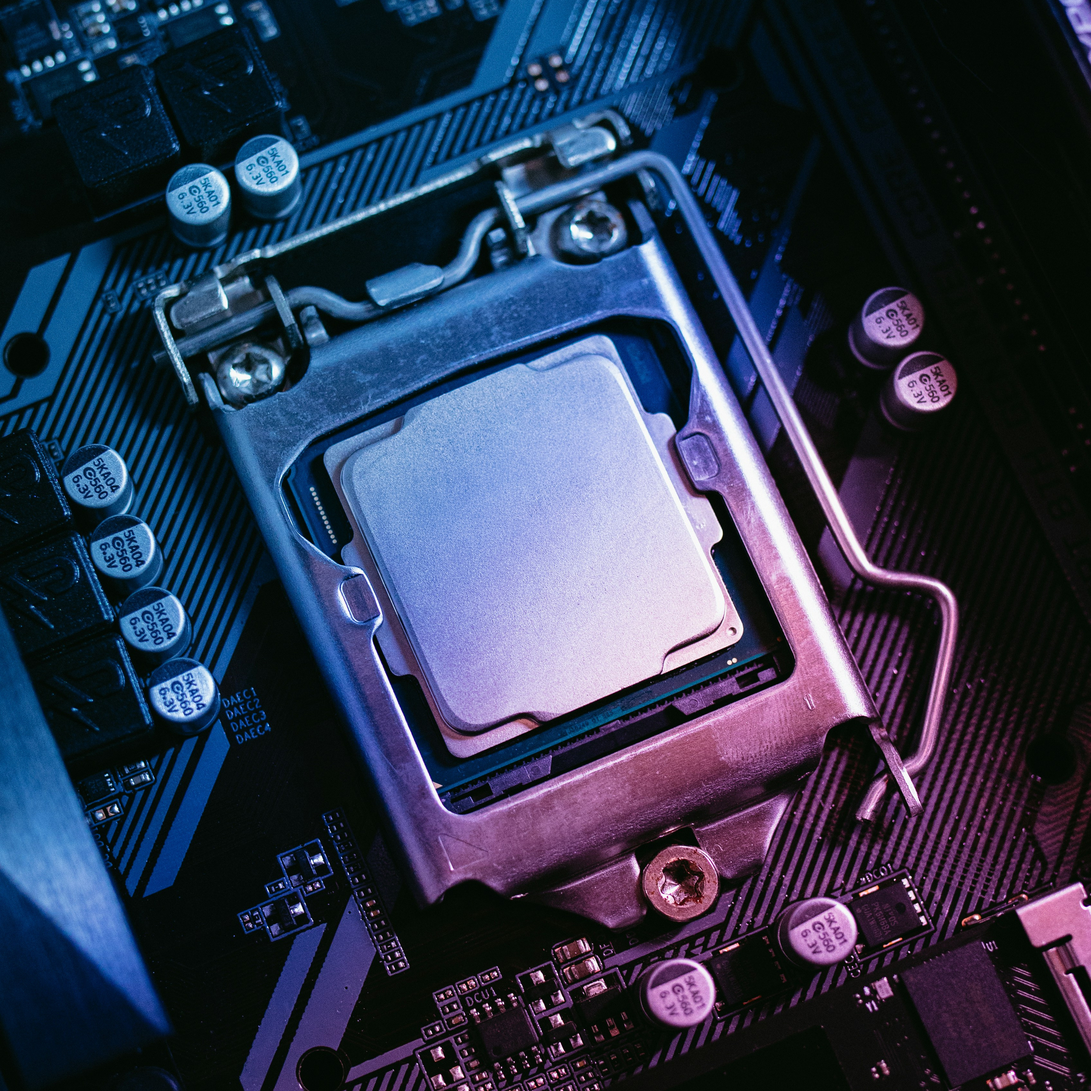
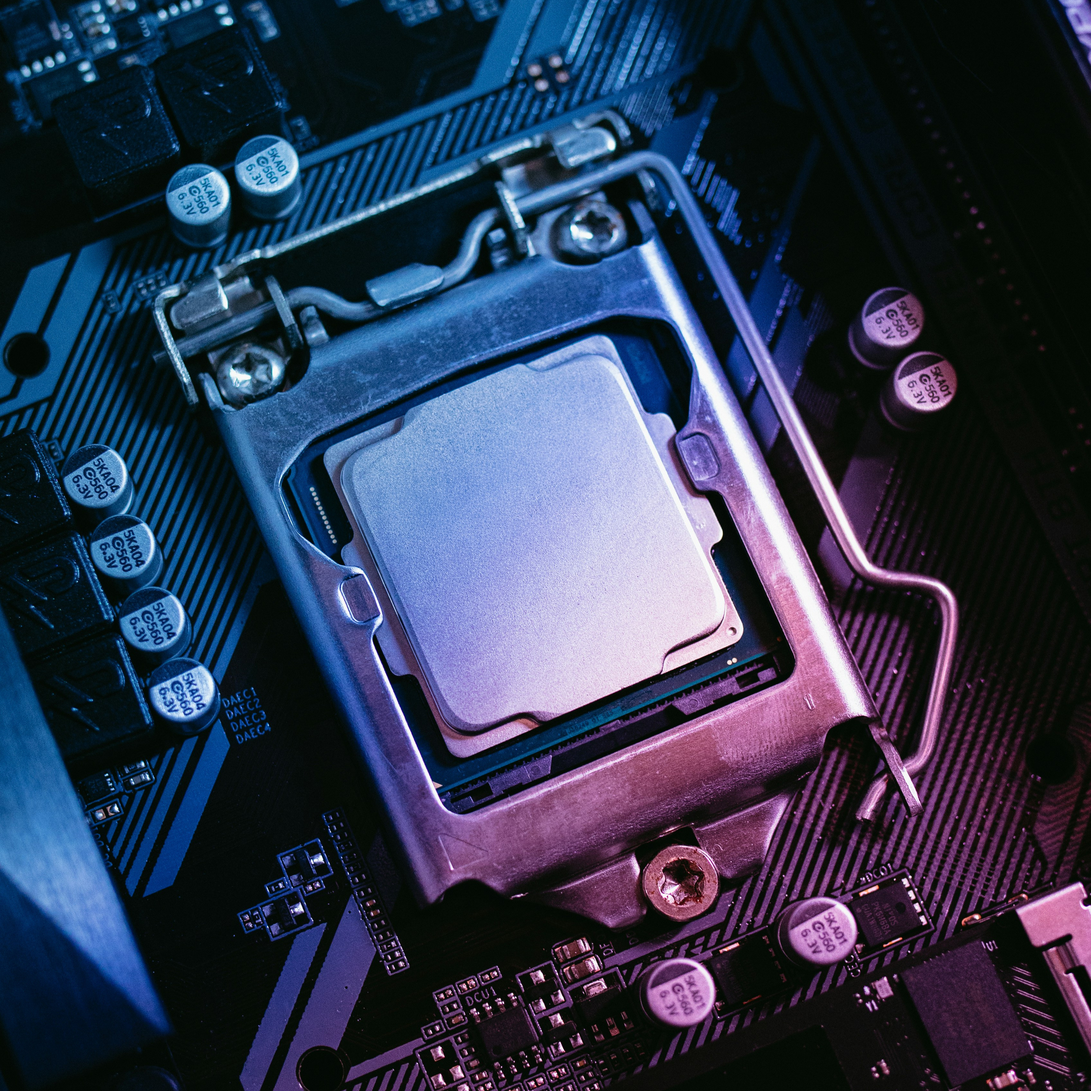
In the final stages of the home page
- Added fade in animations on title and products section.
- Changed navigation bar buttons to anchor tag links that looks like buttons
- Downloaded and cropped images for products
- Finished the layout of the products section and created anchor tags on the image and title

What still needs to be done before 100% completion for home page:
- Add in links that will go to other webpages

diff --git a/index.html b/index.html
@@ -12,23 +12,23 @@
 <body>
     <div class="nav-bar">
         <h1 class="bruno-ace-sc-regular" id="logo">OptiCore</h1>
-        <button class="navbar-button">Home</button>
-        <a href="#about-us-content" class="navbar-button">About Us</a>
-        <!-- <button id="navbar-button">About Us</button> -->
-        <button class="navbar-button">Products</button>
-        <button class="navbar-button">Warranty Policy</button>
-        <button class="navbar-button">Q&A</button>
+        <a href="index.html" class="navbar-button">Home</a>
+        <a href="#about-us" class="navbar-button">About Us</a>
+        <a href="#products" class="navbar-button">Products</a>
+        <a href="" class="navbar-button">Warranty Policy</a>
+        <a href="" class="navbar-button">Q & A</a>
     </div>
     <div id="hero-banner">
         <h1 class="bruno-ace-sc-regular" id="company-name">OptiCore Engineering</h1>
         <h2 class="bruno-ace-sc-regular" id="slogan">Optimized for Performance. At Affordable Prices.</h2>
         <p id="company-description">High-quality computer components, thoroughly tested and reasonably priced.</p> 
-        <button id="shop-now">Shop Now</button>
+        <a href="" class="shop-now-button">Shop Now</a>
+        <!-- <button class="shop-now-button">Shop Now</button> -->
     </div>
 
     <!-- About Us Section of Home Page -->
-    <div class="home-page-containers" id="about-us-content">
-        <h1 class="title-section">About Us</h1>
+    <div class="home-page-containers" id="about-us">
+        <h1 class="title-section">Our Business</h1>
         <p id="about-us-text">We are a growing technology e-commerce computer hardware company that makes and sells high-quality computer parts at competitive prices. 
             We are always striving to provide you with high-quality computer parts at a lower price whether you need them for upgrading or building your computer.</p>
         <br>
@@ -47,8 +47,8 @@
             <p id="about-us-text">
                 <span class="heading-text">Our Mission</span>
                 <br><br>
-                We manufacture and sell computer parts ranging from CPUs and GPUs to motherboards and even our own laptops at a reasonable price.
-               We want to make much needed computer parts available for everybody during the AI boom and their heavy demands.</p>
+                We manufacture and sell computer parts ranging from CPUs and GPUs to motherboards and even our own laptops at a reasonable price. 
+                Our products are always lab-tested and certified to make sure our quality standards have been met to give our customers trusted and reliable computer parts available for everybody during the AI boom and their heavy demands.</p>
             <img src="images-for-business-website/computer-hardware-cropped.jpg" width="20%"">
         </div>
         <!-- Result -->
@@ -64,43 +64,79 @@
     <!-- Products section in Home Page -->
     <div class="home-page-containers" id="products">
         <h1 class="title-section">Products</h1>
-        <div id="product-container">
-            <div class="cpu">
-                <img src="images-for-business-website/cpu-cropped.jpg" width="15%">
-                <p>Base:Insert price here</p>
-                <p>Pro:Insert price here</p>
+        <div class="product-container">
+            <!-- Classes will be used for animations (sequential fade ins) -->
+             <!-- Creating two divs so that there are only five products in each row -->
+             <div class="product-row-one">
+                <div class="cpu">
+                    <a href=""><img src="images-for-business-website/cpu-cropped.jpg" width="275rem"></a>
+                    <a class="product-link" href="" ><h3 id="product-title">Desktop CPU</h3></a>
+                    <p><span class="bold-text">Base</span>: $249.99<br><span class="bold-text">Pro</span>: $499.99</p>
+                </div>
+                <div class="gpu">
+                    <a href=""><img src="images-for-business-website/gpu-cropped.jpg" width="275rem"></a>
+                    <a class="product-link" href=""><h3 id="product-title">Desktop GPU</h3></a>
+                    <p><span class="bold-text">Base</span>: $299.99<br><span class="bold-text">Pro</span>: $799.99</p>
+                </div>
+                <div class="ram">
+                    <a href=""><img src="images-for-business-website/ram-cropped.jpg" width="275rem"></a>
+                    <a class="product-link" href=""><h3 id="product-title">RAM</h3></a>
+                    <p><span class="bold-text">Price</span>:<br>Up to $189.99 (64 GB)</p>
+                </div>
+                <div class="ssd">
+                    <a href=""><img src="images-for-business-website/ssd-cropped.jpg" width="275rem"></a>
+                    <a class="product-link" href=""><h3 id="product-title">SSD</h3></a>
+                    <p><span class="bold-text">Price</span>:<br>Up to $374.99 (4 TB)</p>
+                </div>
+                <div class="motherboard">
+                    <a href=""><img src="images-for-business-website/motherboard-cropped.jpg" width="275rem"></a>
+                    <a class="product-link" href=""><h3 id="product-title">Motherboard</h3></a>
+                    <p><span class="bold-text">Price</span>:<br>$229.99</p>
+                </div>
             </div>
-            <div class="gpu">
-            </div>
-            <div class="ram">
-            </div>
-            <div class="ssd">
-            </div>
-            <div class="motherboard">
-            </div>
-            <div class="liquid-cooler">
-            </div>
-            <div class="fan-cooler">
-            </div>
-            <div class="psu">
-            </div>
-            <div class="ups">
-            </div>
-            <div class="laptops">
+            
+            <div class="product-row-two">
+                <div class="liquid-cooler">
+                    <a href=""><img src="images-for-business-website/liquid-cooler.jpg" width="275rem"></a>
+                    <a class="product-link" href=""><h3 id="product-title">Liquid Cooler</h3></a>
+                    <p><span class="bold-text">Price</span>:<br>$269.99</p>
+                </div>
+                <div class="air-cooler">
+                    <a href=""><img src="images-for-business-website/air-cooler-cropped.png" width="275rem"></a>
+                    <a class="product-link" href=""><h3 id="product-title">Air Cooler</h3></a>
+                    <p><span class="bold-text">Price</span>:<br>$39.99</p>
+                </div>
+                <div class="psu">
+                    <a href=""><img src="images-for-business-website/power-supply-unit.jpg" width="275rem"></a>
+                    <a class="product-link" href=""><h3 id="product-title">Power Supply Unit</h3></a>
+                    <p><span class="bold-text">Price</span>:<br>Up to $79.99</p>
+                </div>
+                <div class="ups">
+                    <a href=""><img src="images-for-business-website/ups-cropped.png" width="275rem"></a>
+                    <a class="product-link" href=""><h3 id="product-title">Uninterruptible Power Supply</h3></a>
+                    <p><span class="bold-text">Price</span>:<br>$124.99</p>
+                </div>
+                <div class="laptops">
+                    <a href=""><img src="images-for-business-website/base-laptop-cropped.jpg" width="275rem"></a>
+                    <a class="product-link" href=""><h3 id="product-title">Laptops</h3></a>
+                    <p><span class="bold-text">Price</span>:<br>Up to $4,200</p>
+                </div>
             </div>
         </div>
     </div>
 
     <!-- Warranty Policy Section -->
-     <div class="home-page-containers" id="warranty-policy">
+     <div class="home-page-containers" id="warranty-section">
         <h1 class="title-section">Warranty Policy</h1>
-        <p>All products get a <span class="bold-text">free 60-day warranty</span>. Visit our <a href="">Warranty Policy</a> for more warranty options and information.</p>
+        <p class="bigger-font-size">All products have a <span class="bold-text">free 60-day warranty</span> included with your purchase. We also provide
+           two paid warranty for longer protection.<br>To learn more, visit our <a class="link" href="">Warranty Policy</a> page.</p>
      </div>
 
      <!-- Q&A Section -->
-      <div class="home-page-containers" id="q&a-section">
+      <div class="home-page-containers" id="qna-section">
         <h1 class="title-section">Q & A</h1>
-        <p>If you have any questions about our business, click <a href="">here</a> to go to the Q&A page.</p>
+        <p class="bigger-font-size">If you have any questions about our business, click <a class="link" href="">here</a> to go to the Q&A page.</p>
      </div>
+     <div
 </body>
 </html>

diff --git a/style.css b/style.css
@@ -3,6 +3,38 @@
         border-color:antiquewhite;
     }
 }
+@keyframes shop-now-hover{
+    100%{
+        transform:scale(1.1);
+}
+}
+/* This animation makes the title go down as it fades in. */
+@keyframes title-fade-in{
+    0%{
+        /* This will make the text go up while being invisible at the start of the animation. */
+        transform:translateY(-1rem);
+        opacity:0;
+    }
+    100%{
+        /* This will make the text go back to its original position and start to appear at the end of the animation. */
+        transform:translateY(0);
+        opacity:1;
+    }
+}
+
+@keyframes products-fade-in{
+    0%{
+        /* This will make the products go down while 0% opacity at the start of the animation */
+        transform:translateY(-2rem);
+        opacity:0;
+    }
+
+    100%{
+        /* This will make the products return to its original position and fade in until at the end of the animation. */
+        transform:translateY(0);
+        opacity:1;
+    }
+}
 
 /*Font Types*/
 .bruno-ace-sc-regular{
@@ -28,7 +60,7 @@ html, body{
     font-family: "Blinker", sans-serif;
     font-weight: 400;
     font-style: normal;
-    font-size:16px;
+    font-size:18px;
 }
 
 body{
@@ -38,9 +70,10 @@ body{
 }
 
 .bold-text{
-    font-weight:bold;
+    font-weight:700;
 }
 
+/* Navigation Bar */
 .nav-bar{
     background-color:#011A50;
     /* For the website to not have the horizontal scroll, width is 99.25% for now. */
@@ -87,6 +120,7 @@ body{
     transform:scale(0.95);
 }
 
+/* Hero Banner */
 #hero-banner{
     width:100%;
     height:45vh;
@@ -100,6 +134,10 @@ body{
     text-align:center;
     color:white;
     line-height:2.5rem;
+    animation-name:title-fade-in;
+    animation-duration:1s;
+    animation-fill-mode:forwards;
+    animation-timing-function:ease-out;
 }
 #company-name{
     font-size:3.5rem;
@@ -110,7 +148,7 @@ body{
 #company-description{
     font-size:1rem;
 }
-#shop-now{
+.shop-now-button{
     width:10vw;
     height:5vh;
     font-family: "Blinker", sans-serif;
@@ -118,23 +156,25 @@ body{
     font-style: normal;
     font-size:1rem;
     color:white;
+    text-decoration:none;
     margin-top:auto;
     background-color:#2650A3;
     border-width:1px;
     border-style:solid;
+    border-color:transparent;
     border-radius:10px;
 }
-#shop-now:hover{
-    /*When hovering, the button should have a different color that fades in while scaling it 10% bigger*/
+
+.shop-now-button:hover{
+    /*When hovering, the button should have a different color that fades in*/
     background-color:#3765BF;
-    transform:scale(1.1);
     animation-name:shop-now-hover;
-    animation-duration:0.25;
+    animation-duration:0.2s;
     animation-fill-mode:forwards;
     animation-timing-function:linear;
 }
-#shop-now:active{
-    transform:scale(1);
+.shop-now-button:active{
+    transform:scale(0.95);
 }
 
 .heading-text{
@@ -143,20 +183,23 @@ body{
 }
 
 .home-page-containers{
-    width:100%;
+    width:auto;
     height:25%;
     background-color:white;
     padding-top:1rem;
     padding-bottom:2.5rem;
     margin-top:1.5rem;
+    margin-bottom:1.5rem;
     text-align:center;
 }
 
-#about-us-content{
+/* About Us */
+
+/* Puts all elements in the about us section at the center */
+#about-us{
     display:flex;
     flex-direction:column;
     align-items:center;
-    position:relative;
 }
 /*Title of the section*/
 .title-section{
@@ -165,8 +208,9 @@ body{
 }
 /*All paragraph text in "About Us" div box*/
 #about-us-text{
-    line-height:1.75rem;
+    line-height:2rem;
     max-width:45%;
+    font-size:1.15rem;
 }
 
 #situation-section{
@@ -194,11 +238,66 @@ body{
     padding:0 0.75rem;
 }
 
-#products{
+/* Products */
 
+.product-container{
+    width:fit-content;
+    margin-left:auto;
+    margin-right:auto;
+    margin-top:2rem;
+    font-size:1.25rem;
+}
+.product-row-one, .product-row-two{
+    width:auto;
+    display:flex;
+    justify-content:center;
+    align-items:baseline;
+    align-content:center;
+    gap:2.5rem;
+}
+.product-row-one{
+    animation-name:products-fade-in;
+    animation-duration:1s;
+    animation-fill-mode:forwards;
+    animation-timing-function:ease-out;
+}
+.product-row-two{
+    animation-name:products-fade-in;
+    animation-duration:2s;
+    animation-fill-mode:forwards;
+    animation-timing-function:ease-out;
+    
+}
+#product{
+    width:max-content;
 }
 
+/* Changes the distance from the product images */
+#product-title{
+    line-height:0px;
+    margin-bottom:1rem;
+}
 
-#warranty-policy{
-    
+.product-link{
+    color:#3765BF;
+    text-decoration:none;
+}
+.product-link:hover{
+    text-decoration:underline;
+}
+
+.bigger-font-size{
+    font-size:1.25rem;
+}
+
+.link{
+    color:black;
+    text-decoration:underline;
+}
+.link:hover{
+    color:blue;
+}
+
+#warranty-section, #qna-section{
+    padding:2.5rem;
 }
